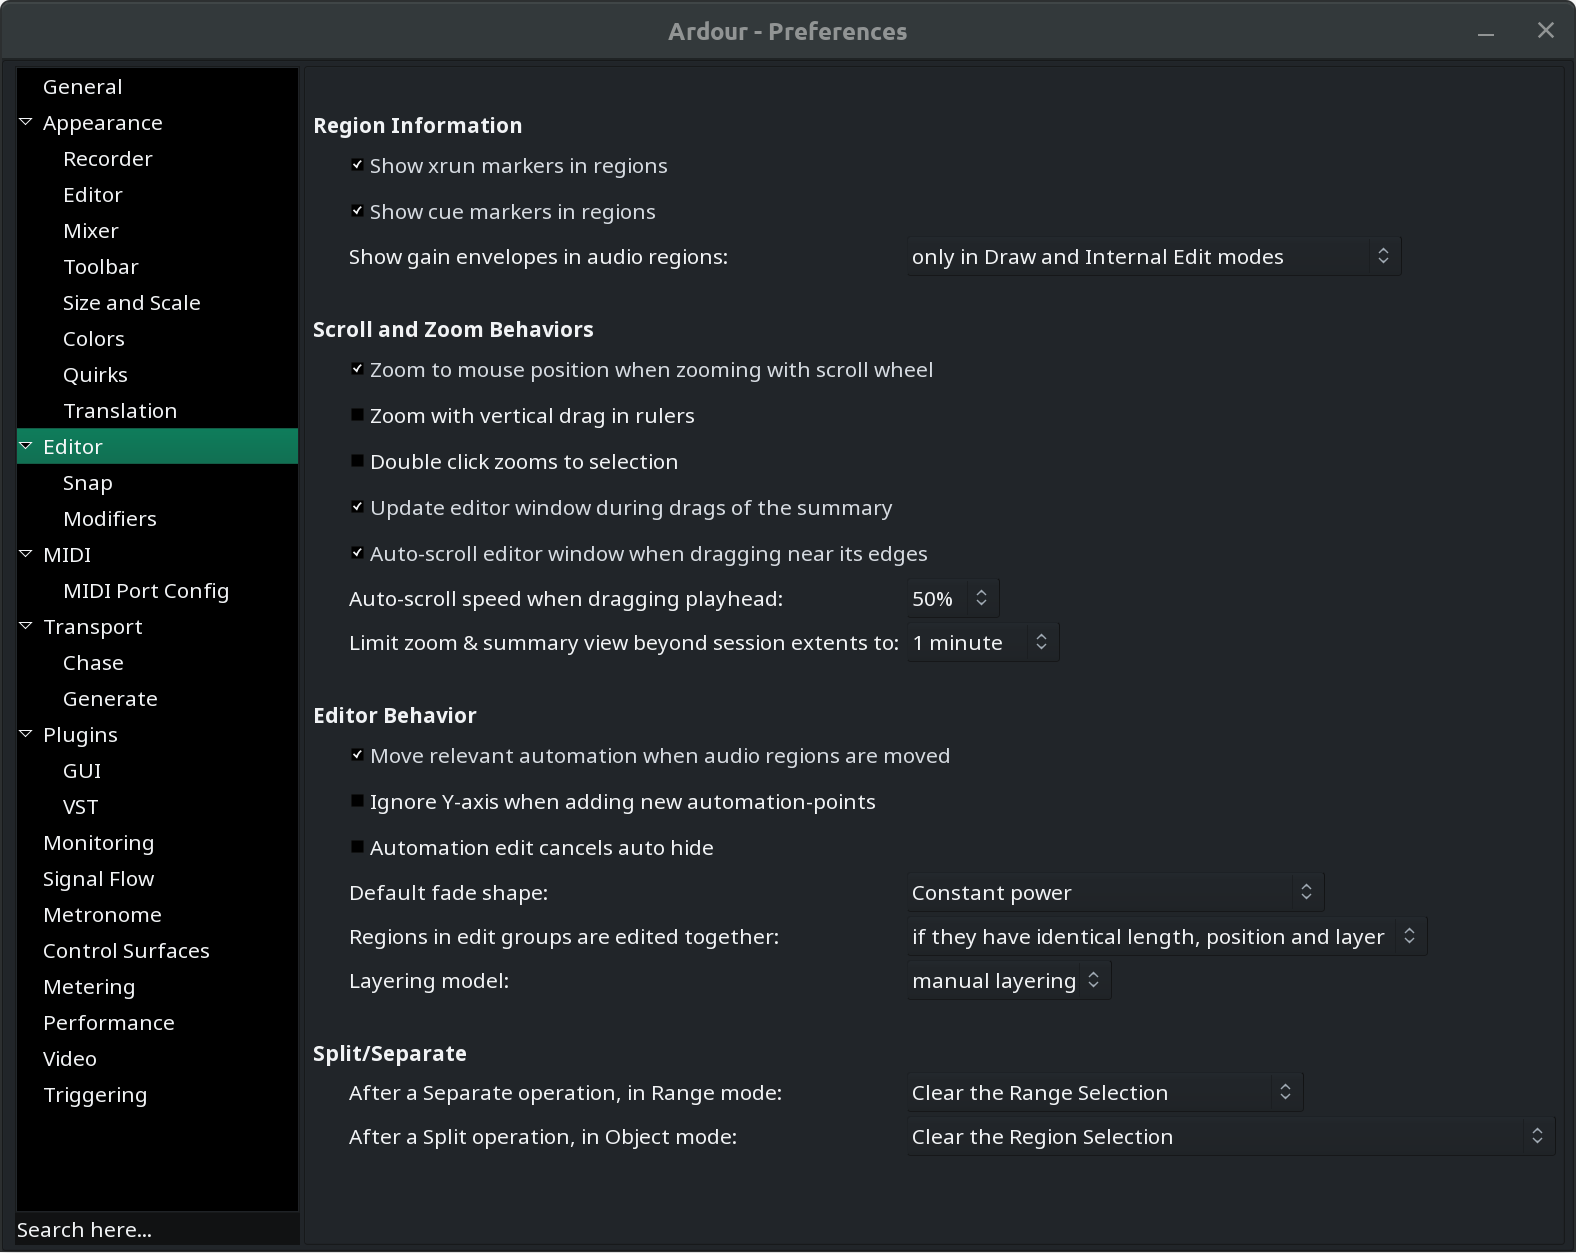
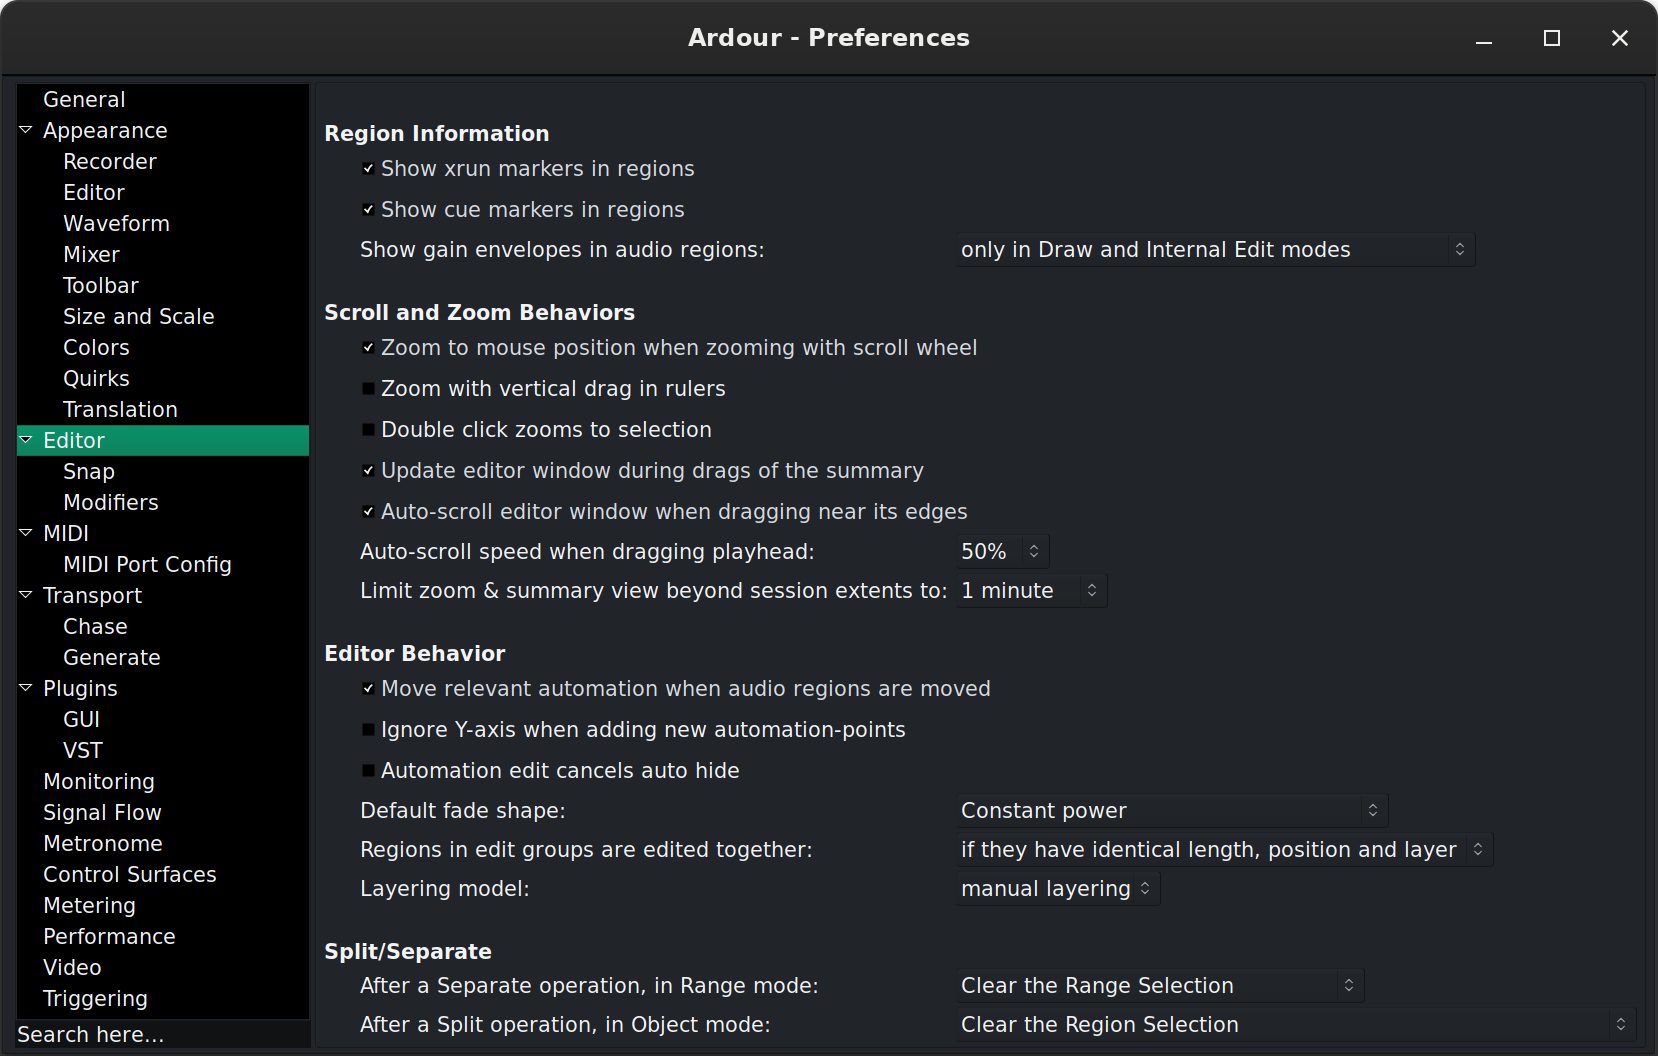
7.5: update Preferences docs

diff --git a/include/preferences.html b/include/preferences.html
@@ -31,6 +31,7 @@
 	<ul>
 		<li><a href="#preferences-appearance-recorder">Recorder</a></li>
 		<li><a href="#preferences-appearance-editor">Editor</a></li>
+    <li><a href="#preferences-appearance-waveform">Waveform</a></li>
 		<li><a href="#preferences-appearance-mixer">Mixer</a></li>
 		<li><a href="#preferences-appearance-toolbar">Toolbar</a></li>
 		<li><a href="#preferences-appearance-size-and-scale">Size and Scale</a></li>
@@ -335,41 +336,6 @@
     </ul>
   </li>
   <li>
-    <dfn>Waveforms</dfn>
-    <ul>
-      <li>
-        <dfn>Show waveforms in regions</dfn>: when enabled, shows a visual
-        representation of the region's audio waveform.
-      </li>
-      <li>
-        <dfn>Show waveforms while recording</dfn>: when enabled, will draw
-        the audio waveform in regions being recorded, in near real time.
-        When disabled, only a region block will be drawn while recording,
-        reducing CPU requirements.
-      </li>
-      <li>
-        <dfn>Show waveform clipping</dfn>: when enabled, the waveform
-        displayed will show peaks marked in red if they exceed the clip level.
-      </li>
-      <li>
-        <dfn>Waveform Clip Level (dBFS)</dfn>: sets the level at which the
-        waveform shown in an audio region will be drawn in red to indicate
-        clipping. Setting lower than 0.0&nbsp;dBFS can be useful if any tool in
-        the audio chain has problems near 0.0&nbsp;dBFS.
-      </li>
-      <li>
-        <dfn>Waveform scale</dfn>: when waveforms are shown in audio regions,
-        they can be displayed using a <em>linear</em> or a <em>logarithmic</em>
-        scale. See <a href="@@waveform-display">Waveform display</a>.
-      </li>
-      <li>
-        <dfn>Waveform shape</dfn>: when waveforms are shown in audio regions,
-        they can be displayed using a <em>traditional</em> or a <em>rectified</em>
-        shape. See <a href="@@waveform-display">Waveform display</a>.
-      </li>
-    </ul>
-  </li>
-  <li>
     <dfn>Editor Meters</dfn>
     <ul>
       <li>
@@ -412,7 +378,47 @@
     </ul>
   </li>
 </ul>
-  
+
+<h3 id="preferences-appearance-waveform">Waveform</h3>
+
+<ul>
+  <li>
+    <dfn>Editor Waveforms</dfn>
+    <ul>
+      <li>
+        <dfn>Show waveforms in regions</dfn>: when enabled, shows a visual
+        representation of the region's audio waveform.
+      </li>
+      <li>
+        <dfn>Show waveforms while recording</dfn>: when enabled, will draw
+        the audio waveform in regions being recorded, in near real time.
+        When disabled, only a region block will be drawn while recording,
+        reducing CPU requirements.
+      </li>
+      <li>
+        <dfn>Show waveform clipping</dfn>: when enabled, the waveform
+        displayed will show peaks marked in red if they exceed the clip level.
+      </li>
+      <li>
+        <dfn>Waveform Clip Level (dBFS)</dfn>: sets the level at which the
+        waveform shown in an audio region will be drawn in red to indicate
+        clipping. Setting lower than 0.0&nbsp;dBFS can be useful if any tool in
+        the audio chain has problems near 0.0&nbsp;dBFS.
+      </li>
+      <li>
+        <dfn>Waveform scale</dfn>: when waveforms are shown in audio regions,
+        they can be displayed using a <em>linear</em> or a <em>logarithmic</em>
+        scale. See <a href="@@waveform-display">Waveform display</a>.
+      </li>
+      <li>
+        <dfn>Waveform shape</dfn>: when waveforms are shown in audio regions,
+        they can be displayed using a <em>traditional</em> or a <em>rectified</em>
+        shape. See <a href="@@waveform-display">Waveform display</a>.
+      </li>
+    </ul>
+  </li>
+</ul>
+
 <h3 id="preferences-appearance-mixer">Mixer</h3>
 
 <ul>
@@ -555,12 +561,16 @@
         into a toddler's toy.
       </li>
       <li>
-        <dfn>Use color-palette to assign color for new tracks/busses</dfn>
+        <dfn>Use color-palette to assign color for new tracks</dfn>
         enables color-coding of tracks by picking colors from a fixed palette
         and assigning them to regions' backgrounds and, optionally, to
-        respective faders of tracks and busses (there is a dedicated setting for 
-        that). When disabled, all regions (and faders) have a neutral gray
+        respective faders of tracks and busses (there is a dedicated setting
+        for that). When disabled, all regions (and faders) have a neutral gray
         background.
+      </li>
+      <li>
+        <dfn>Use color-palette to assign color for new busses</dfn> does the
+        same as the setting above, but with regards to busses.
       </li>
       <li>
         <dfn>Use color-palette to assign color for new VCA</dfn> does the same
@@ -816,6 +826,7 @@
 	Lists the different possible anchors to which an object should snap to, among:
 	<ul>
 	  <li>Markers</li>
+    <li>Playhead</li>
 	  <li>Region Sync points</li>
 	  <li>Region Starts</li>
 	  <li>Region Ends</li>
@@ -1633,6 +1644,16 @@
       <li>
         <dfn>Enable Metronome only while recording</dfn>: when enabled, the
         metronome will remain silent unless Ardour is recording.
+      </li>
+    </ul>
+  </li>
+  <li>
+    <dfn>Tempo</dfn>
+    <ul>
+      <li>
+        <dfn>Default tempo ruler state for new sessions</dfn>: allows choosing
+        whether a tempo map is created by default or requires the user to
+        build it from mapping performance to bars and beats.
       </li>
     </ul>
   </li>
